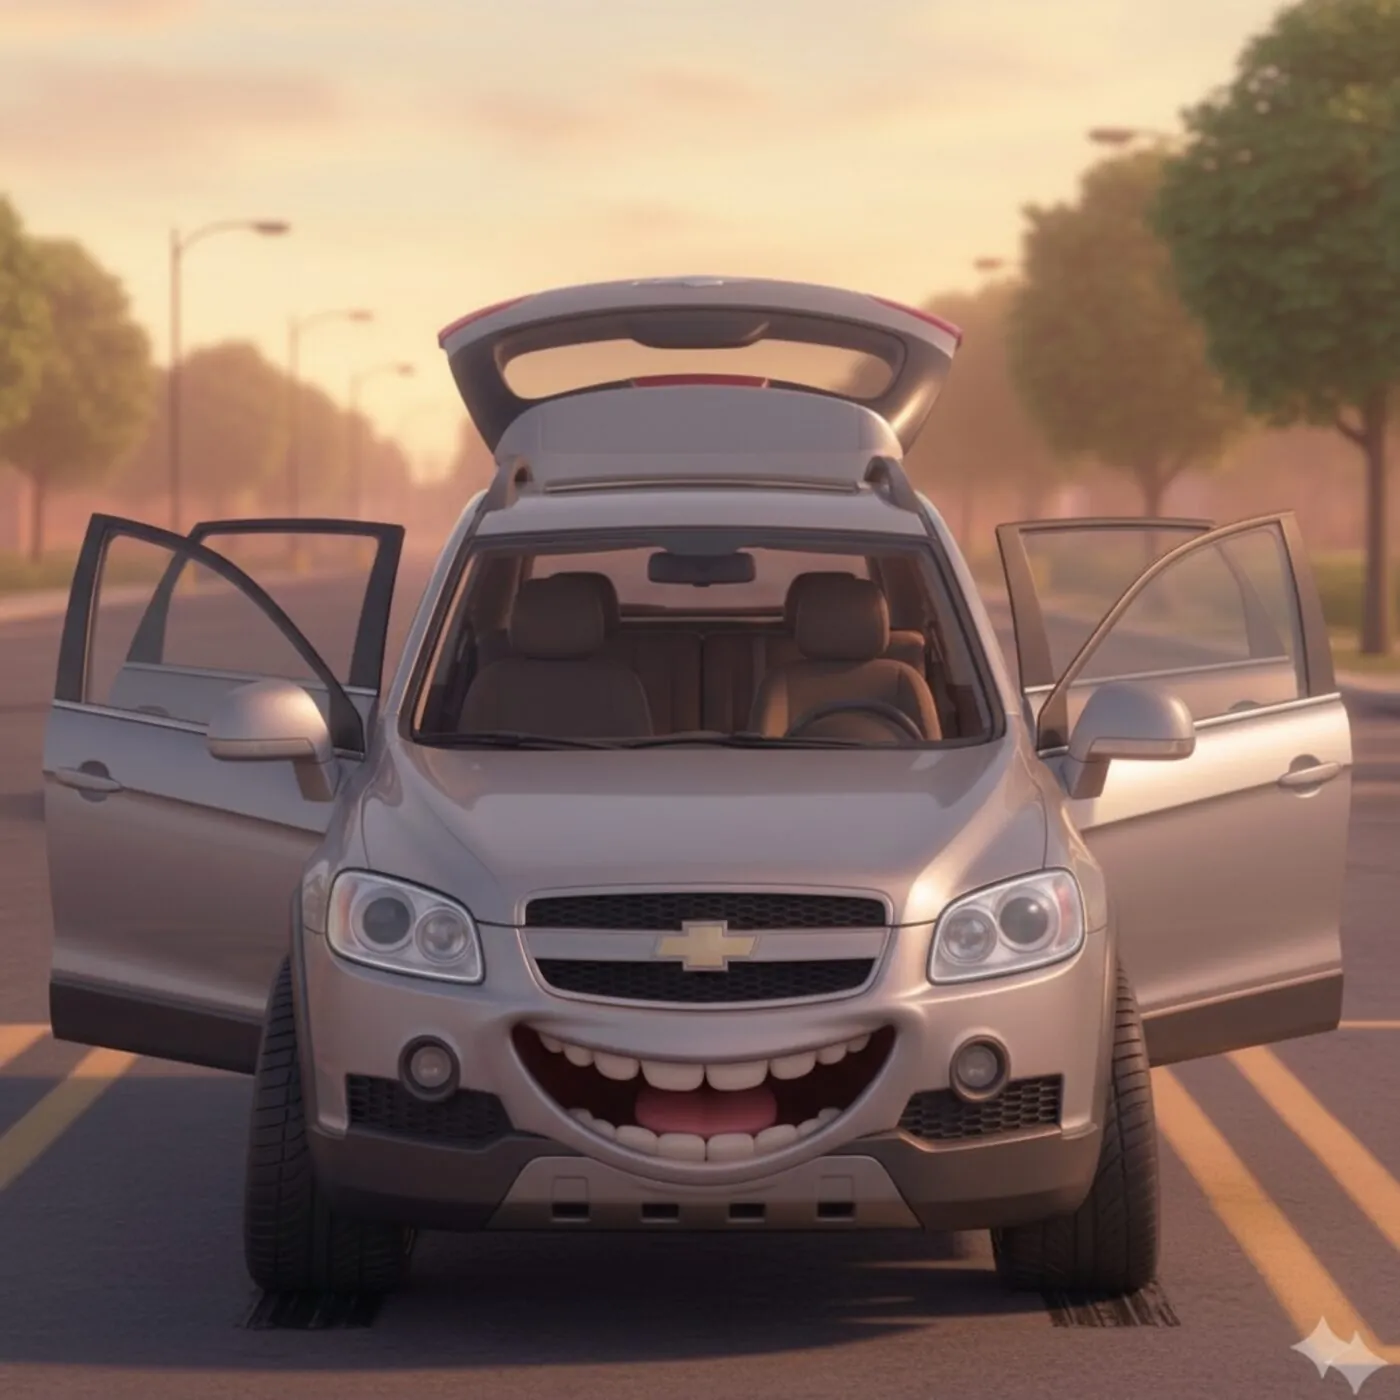
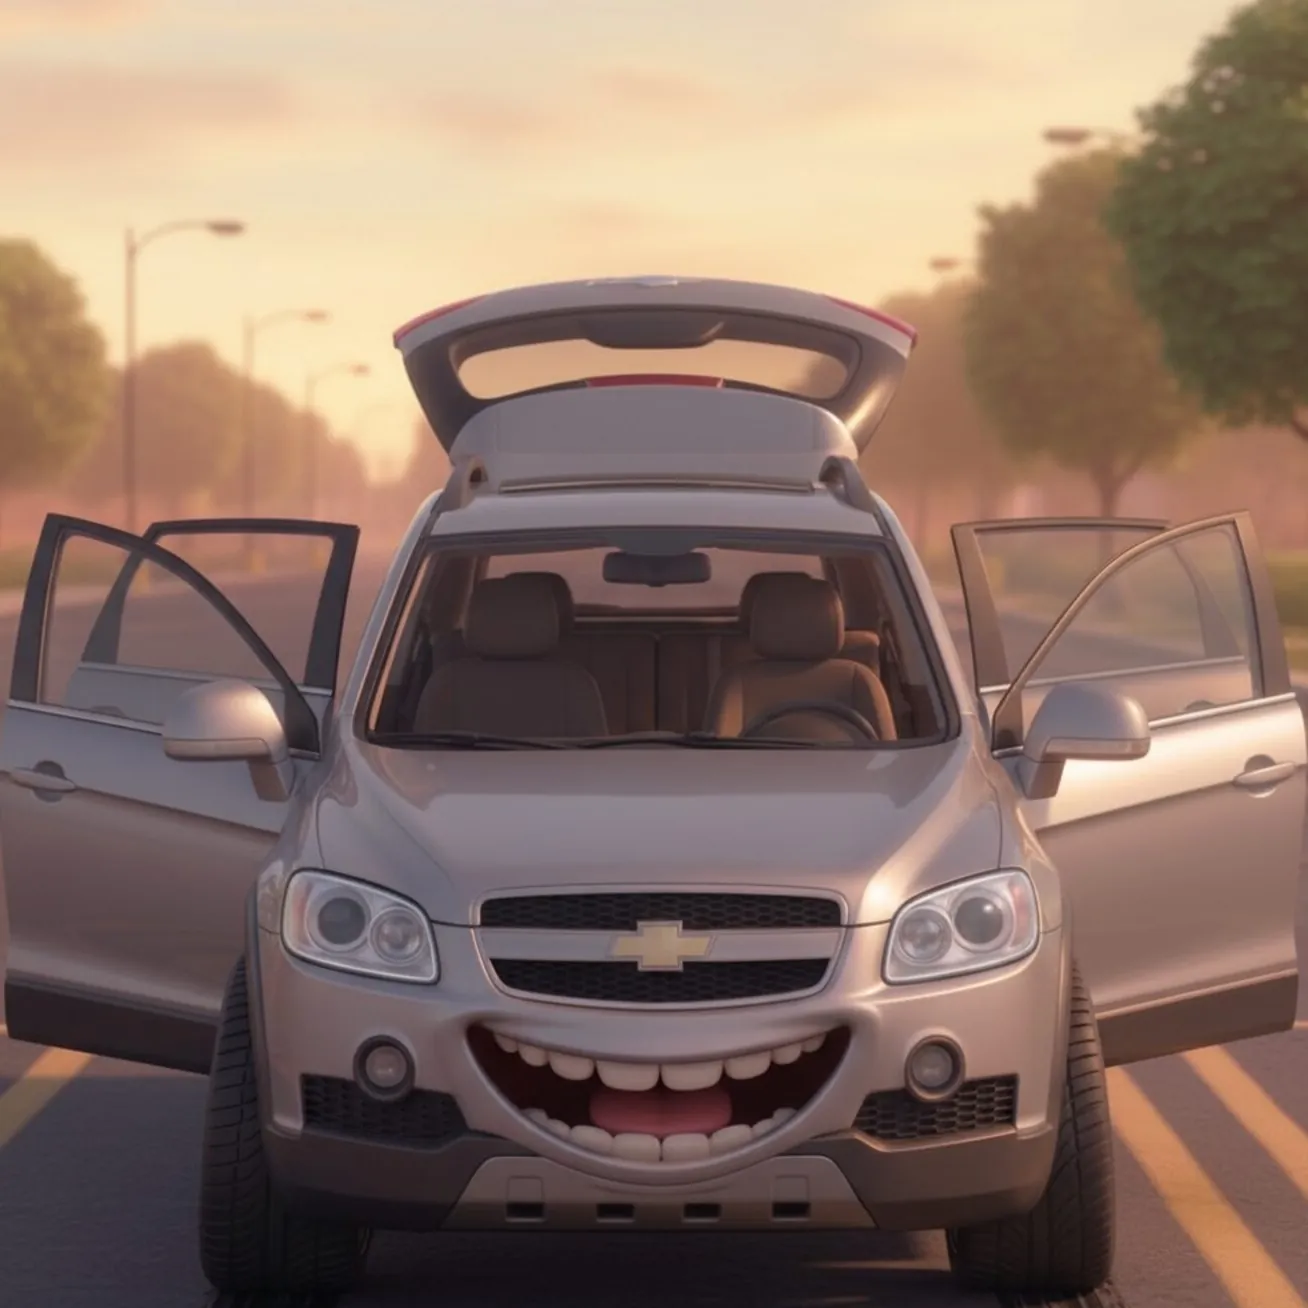
fix(v3): remove marca do gerador da portas-abertas

diff --git a/index.html b/index.html
@@ -87,7 +87,7 @@
 
         <img class="carrao__img reveal"
              src="img/cartoon/portas-abertas.webp"
-             width="1400" height="1400"
+             width="1308" height="1308"
              loading="lazy" decoding="async"
              alt="Cartoon do Captiva prata de frente, com um sorrisão de orelha a orelha, portas e porta-malas escancarados numa avenida ao entardecer, mostrando o espaço que tem por dentro.">
 
